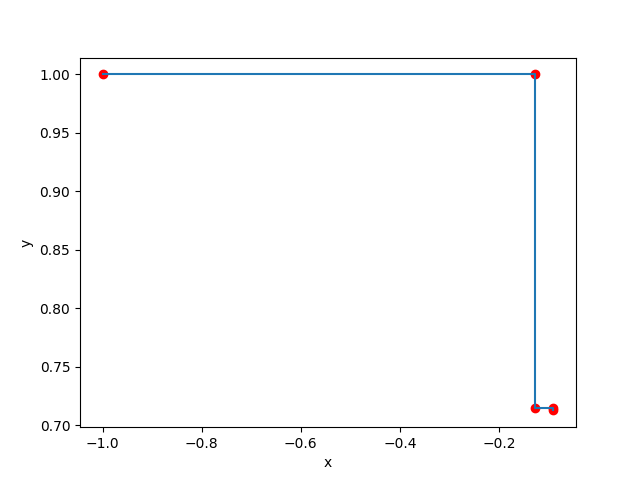
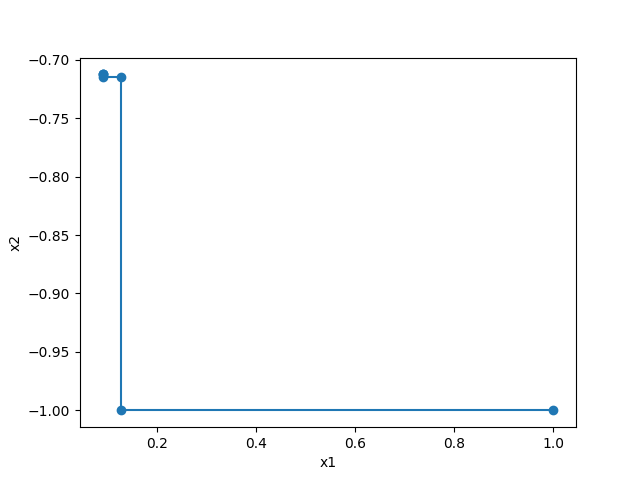
add readme

diff --git a/main.py b/main.py
@@ -14,7 +14,7 @@ def plot_func(f, lb, ub, filename):
     plt.plot(x, y)
     plt.xlabel('x')
     plt.ylabel('y')
-    plt.savefig(f'python_code/result_plot/{filename}')
+    plt.savefig(f'result_plot/{filename}')
     plt.clf()
 
 
@@ -31,8 +31,9 @@ def Q1():
     )
     print(f'golden search: min_value={result["y"]}, min_point={result["X"]}')
     y_list = [f(x) for x in result['x_list']]
-    plt.plot(range(len(y_list)), y_list)
-    plt.savefig('python_code/result_plot/gold.png')
+    plt.scatter(range(len(y_list)), y_list)
+    plt.xticks(range(len(y_list)), range(len(y_list)))
+    plt.savefig('result_plot/gold.png')
     plt.clf()
 
     result = oneDim.Dichotomous(
@@ -47,7 +48,8 @@ def Q1():
         f'Dichotomous search: min_value={result["y"]}, min_point={result["X"]}')
     # plt.plot(range(len(y_list)), y_list)
     plt.scatter(range(len(y_list)), y_list)
-    plt.savefig('python_code/result_plot/Dichotomous.png')
+    plt.xticks(range(len(y_list)), range(len(y_list)))
+    plt.savefig('result_plot/Dichotomous.png')
     plt.clf()
 
 
@@ -58,18 +60,17 @@ def Q2():
 
     result = cyclic.cyclic(
         func=f,
-        init_X=[-1, 1],
+        init_X=[1, -1],
         x_bound_list=[[-2, 2], [-2, 2]],
-        tol=1e-3
+        tol=1e-5
     )
     print(
         f'cyclic coordinate method: min_value={result["y"]}, min_point={result["X"]}')
     x, y = zip(*result['x_list'])
-    plt.plot(x, y)
-    plt.xlabel('x')
-    plt.ylabel('y')
-    plt.scatter(x, y, color='red')
-    plt.savefig('python_code/result_plot/cyclic.png')
+    plt.plot(x, y, marker='o')
+    plt.xlabel('x1')
+    plt.ylabel('x2')
+    plt.savefig('result_plot/cyclic.png')
     plt.clf()
 
 
@@ -80,7 +81,7 @@ def Q3():
 
     result = powell.powell(
         func=f,
-        X=np.array([-1, -1]),
+        init_X=np.array([1, -1]),
         min_b=-2,
         max_b=2,
         tol=1e-5
@@ -89,8 +90,9 @@ def Q3():
     print(
         f'powell\'s method: min_value={result["y"]}, min_point={result["X"]}')
     plt.plot(x, y)
-    # plt.scatter(x, y, color='red')
-    plt.savefig('python_code/result_plot/powell.png')
+    plt.xlabel('x1')
+    plt.ylabel('x2')
+    plt.savefig('result_plot/powell.png')
 
 
 def main():

diff --git a/_powell_method.py b/_powell_method.py
@@ -24,14 +24,14 @@ def goldSearch(func, d, cur_pos, min_b, max_b, tol):
     return {'X': min_x, 'y': func(cur_pos + min_x * d)}
 
 
-def powell(func, X, min_b, max_b, tol):
-    dim = X.size
+def powell(func, init_X, min_b, max_b, tol):
+    dim = init_X.size
     d = np.eye(dim)
     new_x = None
 
-    min_x_list = [X]
-    while new_x is None or np.max(np.abs(X - new_x)) > tol:
-        cur_pos = X
+    min_x_list = [init_X]
+    while new_x is None or np.max(np.abs(init_X - new_x)) > tol:
+        cur_pos = init_X
 
         for i in range(dim):
             result = goldSearch(
@@ -48,10 +48,10 @@ def powell(func, X, min_b, max_b, tol):
 
         for i in range(dim - 1):
             d[:, i] = d[:, i + 1]
-        d[:, dim - 1] = cur_pos - X
+        d[:, dim - 1] = cur_pos - init_X
         d[:, dim - 1] = d[:, dim - 1] / np.linalg.norm(d[:, dim - 1], ord=2)
 
-        new_x = X
+        new_x = init_X
         result = goldSearch(
             func=func,
             d=d[:, dim - 1],
@@ -61,8 +61,8 @@ def powell(func, X, min_b, max_b, tol):
             tol=tol
         )
         lmb = result['X']
-        X = cur_pos + lmb * d[:, dim - 1]
-        min_x_list.append(X)
-    min_y = func(X)
+        init_X = cur_pos + lmb * d[:, dim - 1]
+        min_x_list.append(init_X)
+    min_y = func(init_X)
 
-    return {'X': X, 'y': min_y, 'x_list': min_x_list}
+    return {'X': init_X, 'y': min_y, 'x_list': min_x_list}

diff --git a/readme.md b/readme.md
@@ -1,0 +1,33 @@
+# readme
+
+請執行main.py即可得到計算結果，如要更改初始位置等參數請修改main.py內Q1,Q2,Q3 function內goldSearch、Dichotomous、cyclic或powell方法的參數
+
+## goldSearch function
+
+func：要最佳化的函數
+a: lower bound
+b: upper bound
+tol: tolerance
+
+## Dichotomous function
+
+func：要最佳化的函數
+a: lower bound
+b: upper bound
+ep: epilson
+tol: tolerance
+
+## cyclic funciton
+
+func：要最佳化的函數
+init_X: 初始點
+x_bound_list: 每個變數的bound
+tol: tolerance
+
+## powell function
+
+func：要最佳化的函數
+init_X: 初始點
+min_b: lower bound
+max_b: upper bound
+tol: tolerance
